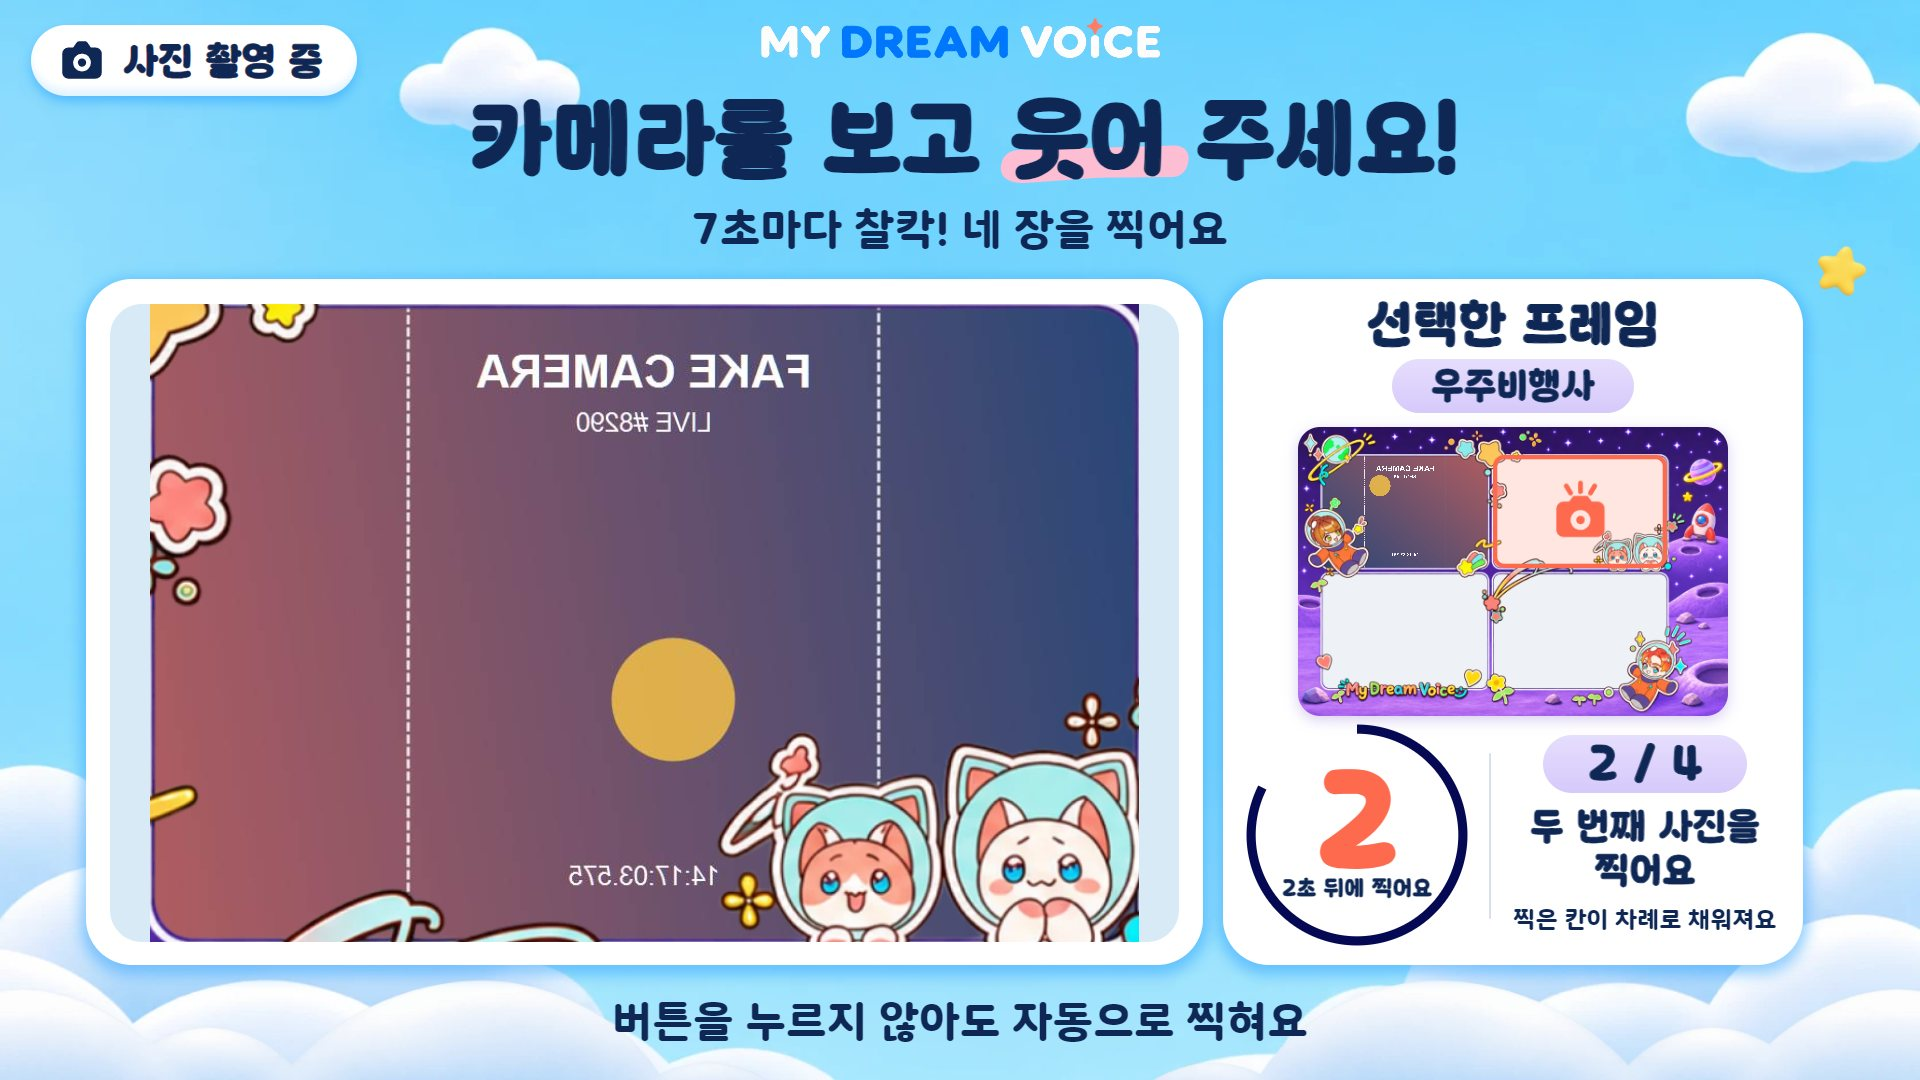
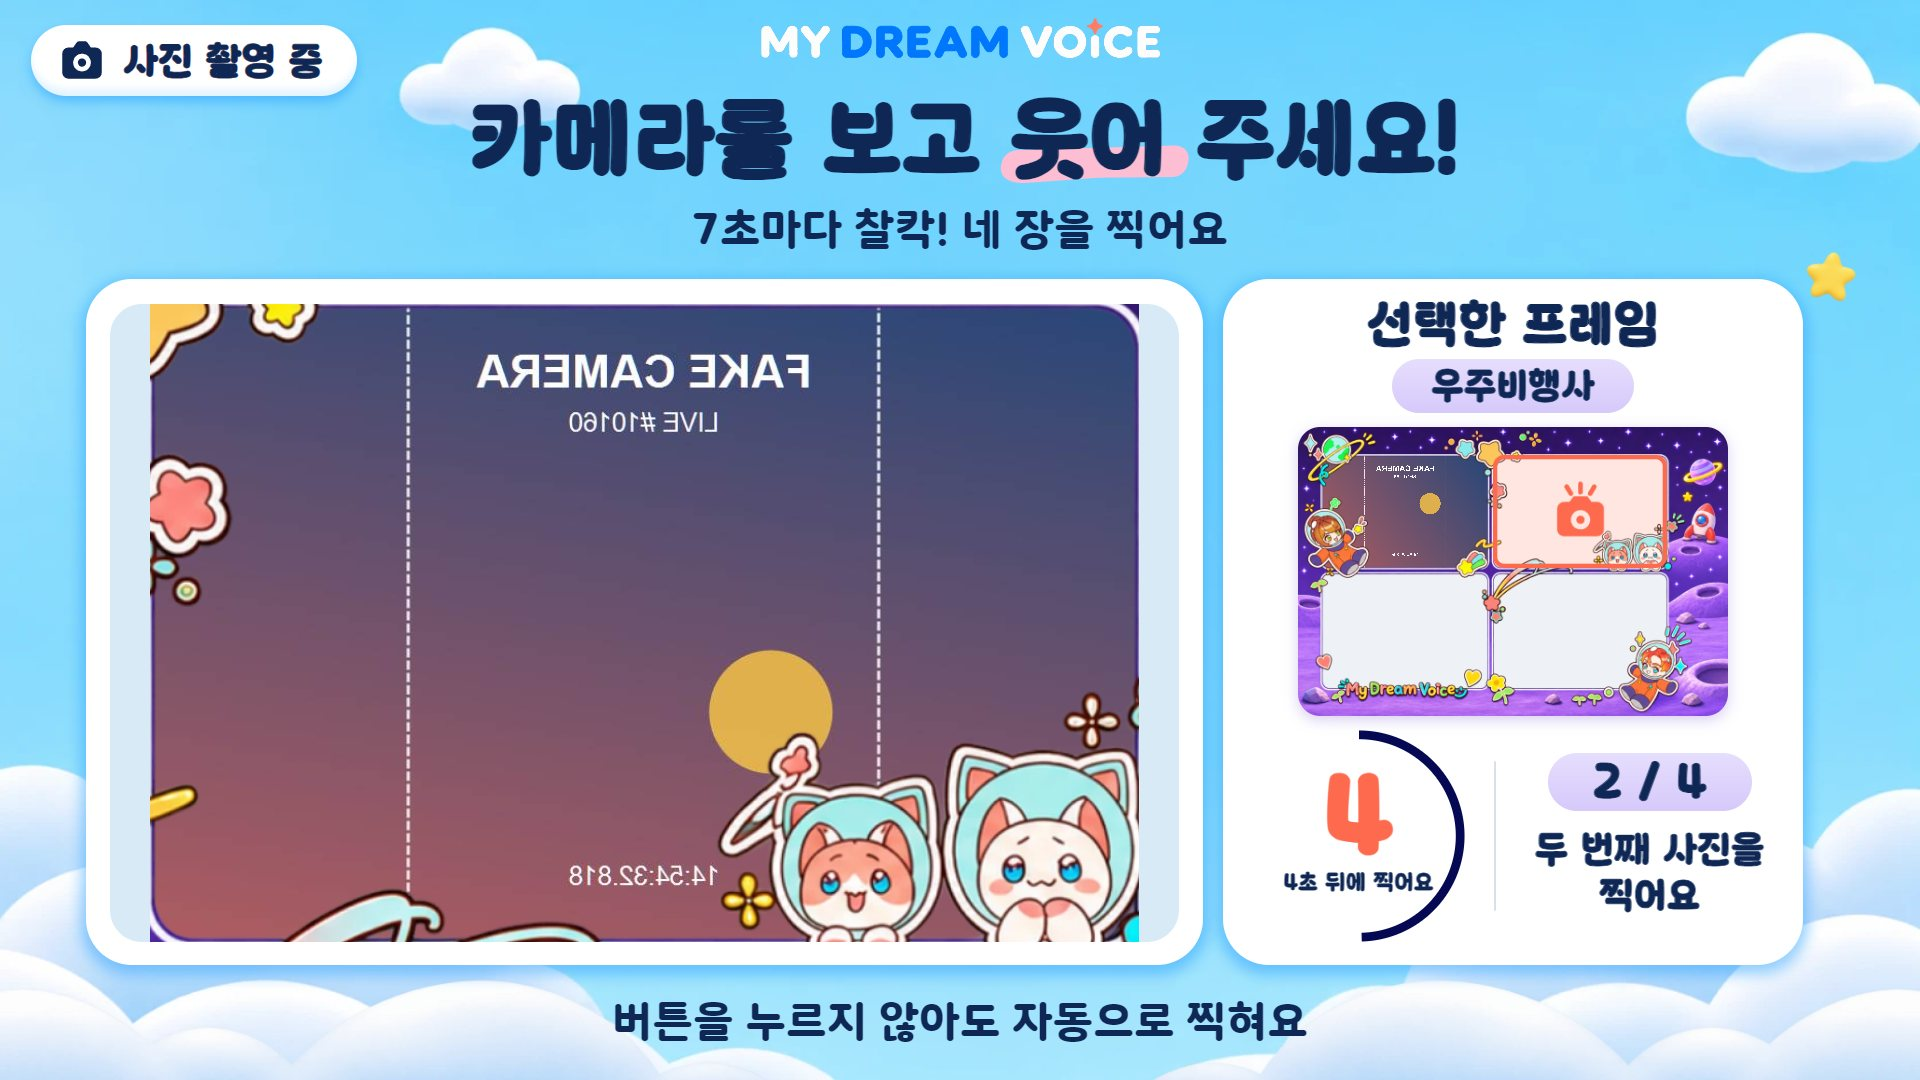
P-06 오른쪽 아래 줄 — '찍은 칸이 차례로 채워져요' 뺌 · 시간 원 | 세로 줄 | N / 4 · '○ 번째 사진을 찍어요'를 한 줄(flex)로 묶어 세로 가운데 · 가로 고르게(space-evenly) · 흐름도 캡처 새로

diff --git a/kiosk/src/renderer/screens/P06Capture.tsx b/kiosk/src/renderer/screens/P06Capture.tsx
@@ -530,57 +530,59 @@ export function P06Capture(): ReactNode {
               <FramePreview job={job} shots={frameShots} activeCell={activeCell} />
             </div>
 
-            {/* 시간 원 — 0초에는 테두리가 없고, 7초 동안 12시 방향부터 시계 방향으로 그려져 찍는 순간 한 바퀴가 된다 */}
-            <div className="p06-timer" data-phase={phase}>
-              <svg className="p06-timer__ring" viewBox="0 0 220 220" aria-hidden="true" focusable="false">
-                {phase === 'countdown' && <RingArc key={`count-${done}`} startedAt={countStartRef.current} />}
-                {phase === 'shutter' && (
-                  // 찍는 순간 — 다 그려진 원
-                  <circle className="p06-timer__arc p06-timer__arc--full" cx="110" cy="110" r="104" pathLength={100} />
-                )}
-              </svg>
-              {phase === 'countdown' ? (
-                <>
-                  <span key={count} className="p06-timer__num">
-                    {count}
-                  </span>
-                  <span className="p06-timer__text">{count}초 뒤에 찍어요</span>
-                </>
-              ) : (
-                <span className="p06-timer__word">
-                  {phase === 'shutter'
-                    ? '찰칵!'
-                    : phase === 'preparing'
-                      ? '준비 중'
-                      : phase === 'composing'
-                        ? '완성!'
-                        : '잠깐만요'}
-                </span>
-              )}
-            </div>
-
-            <i className="p06-divider" aria-hidden="true" />
-
-            <div className="p06-step">
-              <p className="p06-progress">
-                {cutNo} / {CUT_COUNT}
-              </p>
-              <p className="p06-step__main">
-                {phase === 'composing' ? (
+            {/* 아래 줄 — 시간 원 | N / 4 · "○ 번째 사진을 찍어요" (가운데 맞춰 고르게 놓는다) */}
+            <div className="p06-bottom">
+              {/* 시간 원 — 0초에는 테두리가 없고, 7초 동안 12시 방향부터 시계 방향으로 그려져 찍는 순간 한 바퀴가 된다 */}
+              <div className="p06-timer" data-phase={phase}>
+                <svg className="p06-timer__ring" viewBox="0 0 220 220" aria-hidden="true" focusable="false">
+                  {phase === 'countdown' && <RingArc key={`count-${done}`} startedAt={countStartRef.current} />}
+                  {phase === 'shutter' && (
+                    // 찍는 순간 — 다 그려진 원
+                    <circle className="p06-timer__arc p06-timer__arc--full" cx="110" cy="110" r="104" pathLength={100} />
+                  )}
+                </svg>
+                {phase === 'countdown' ? (
                   <>
-                    네 장을
-                    <br />
-                    다 찍었어요!
+                    <span key={count} className="p06-timer__num">
+                      {count}
+                    </span>
+                    <span className="p06-timer__text">{count}초 뒤에 찍어요</span>
                   </>
                 ) : (
-                  <>
-                    {ORDINAL[cutNo - 1]} 사진을
-                    <br />
-                    찍어요
-                  </>
+                  <span className="p06-timer__word">
+                    {phase === 'shutter'
+                      ? '찰칵!'
+                      : phase === 'preparing'
+                        ? '준비 중'
+                        : phase === 'composing'
+                          ? '완성!'
+                          : '잠깐만요'}
+                  </span>
                 )}
-              </p>
-              <p className="p06-step__sub">찍은 칸이 차례로 채워져요</p>
+              </div>
+
+              <i className="p06-divider" aria-hidden="true" />
+
+              <div className="p06-step">
+                <p className="p06-progress">
+                  {cutNo} / {CUT_COUNT}
+                </p>
+                <p className="p06-step__main">
+                  {phase === 'composing' ? (
+                    <>
+                      네 장을
+                      <br />
+                      다 찍었어요!
+                    </>
+                  ) : (
+                    <>
+                      {ORDINAL[cutNo - 1]} 사진을
+                      <br />
+                      찍어요
+                    </>
+                  )}
+                </p>
+              </div>
             </div>
           </aside>
 

diff --git a/kiosk/src/renderer/styles/capture.css b/kiosk/src/renderer/styles/capture.css
@@ -358,13 +358,24 @@
   box-shadow: inset 0 0 0 1cqw var(--d-coral);
 }
 
+/* 아래 줄 — 시간 원 | 세로 줄 | N / 4 · "○ 번째 사진을 찍어요". 미리보기 아래 남은 자리에서 세로 가운데 · 가로로 고르게 */
+.p06-bottom {
+  position: absolute;
+  left: 0;
+  right: 0;
+  top: 446px;
+  bottom: 18px;
+  display: flex;
+  align-items: center;
+  justify-content: space-evenly;
+}
+
 /* 시간 원 — 숫자(주황) + "N초 뒤에 찍어요". 선은 7초 동안 12시 방향부터 시계 방향으로 그려진다 */
 .p06-timer {
-  position: absolute;
-  left: 22px;
-  top: 444px;
-  width: 224px;
-  height: 224px;
+  position: relative;
+  flex: 0 0 auto;
+  width: 214px;
+  height: 214px;
   /* 글자 묶음을 조금 위로 — "N초 뒤에 찍어요"가 원 아래쪽 선에 닿지 않게 */
   padding-bottom: 14px;
   box-sizing: border-box;
@@ -439,20 +450,16 @@
 
 /* 가운데 세로 줄 */
 .p06-divider {
-  position: absolute;
-  left: 266px;
-  top: 474px;
+  flex: 0 0 auto;
   width: 2px;
-  height: 166px;
+  height: 150px;
   border-radius: 1px;
   background: #d8e0ea;
 }
 
 .p06-step {
-  position: absolute;
-  left: 272px;
-  top: 456px;
-  width: 300px;
+  flex: 0 0 auto;
+  width: 250px;
   display: flex;
   flex-direction: column;
   align-items: center;
@@ -477,22 +484,14 @@
 }
 
 .p06-step__main {
-  margin: 12px 0 0;
+  margin: 16px 0 0;
   font-family: var(--d-font-button);
   font-size: 37px;
   font-weight: 700;
-  line-height: 44px;
+  line-height: 46px;
+  white-space: nowrap;
   -webkit-text-stroke: 0.8px currentColor;
   paint-order: stroke fill;
-}
-
-.p06-step__sub {
-  margin: 12px 0 0;
-  font-family: var(--d-font-display);
-  font-size: 23px;
-  font-weight: 700;
-  line-height: 1.2;
-  white-space: nowrap;
 }
 
 /* ── 아래 안내 ── */
